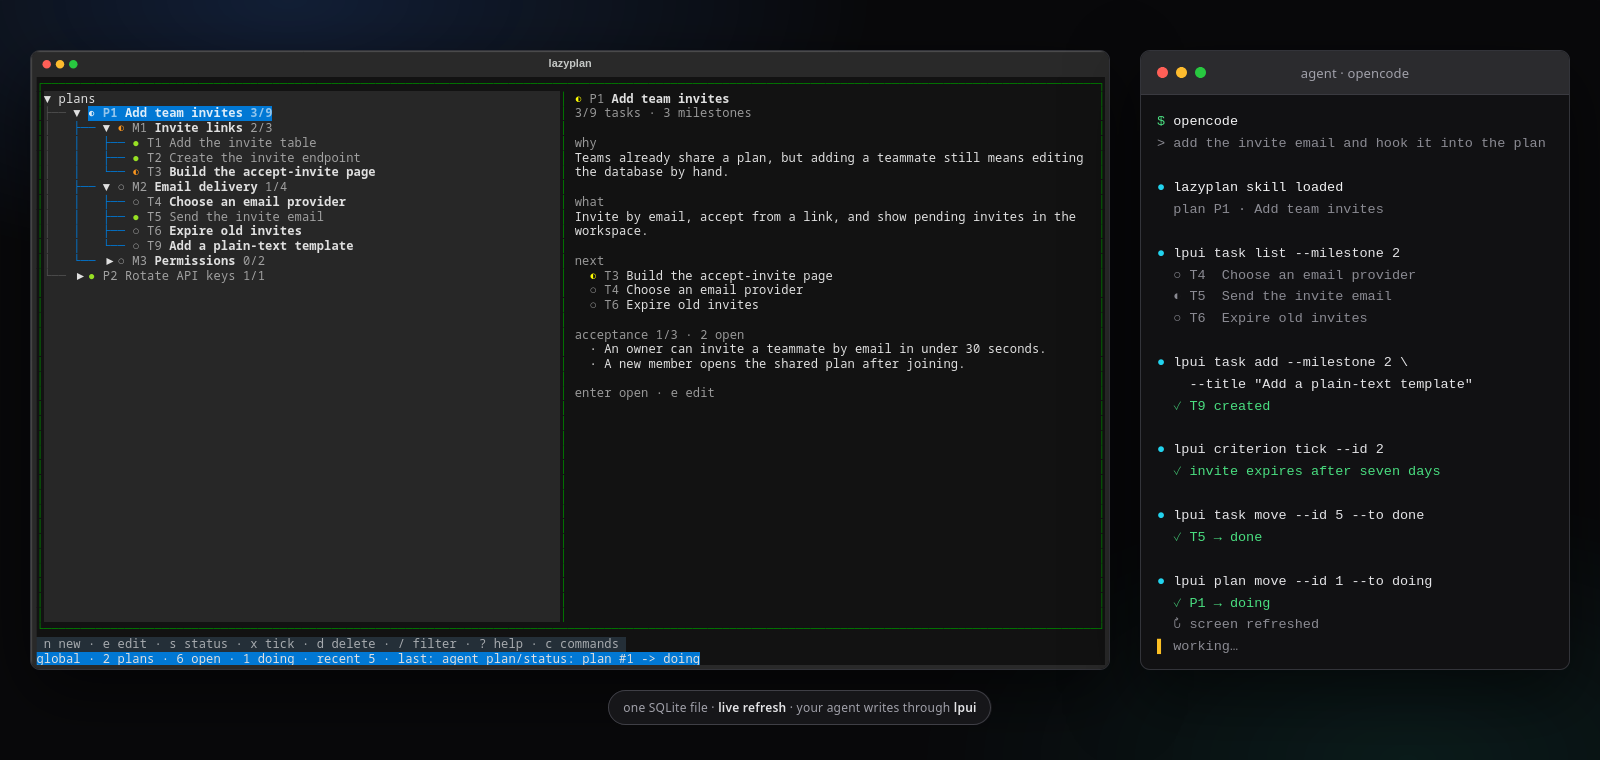
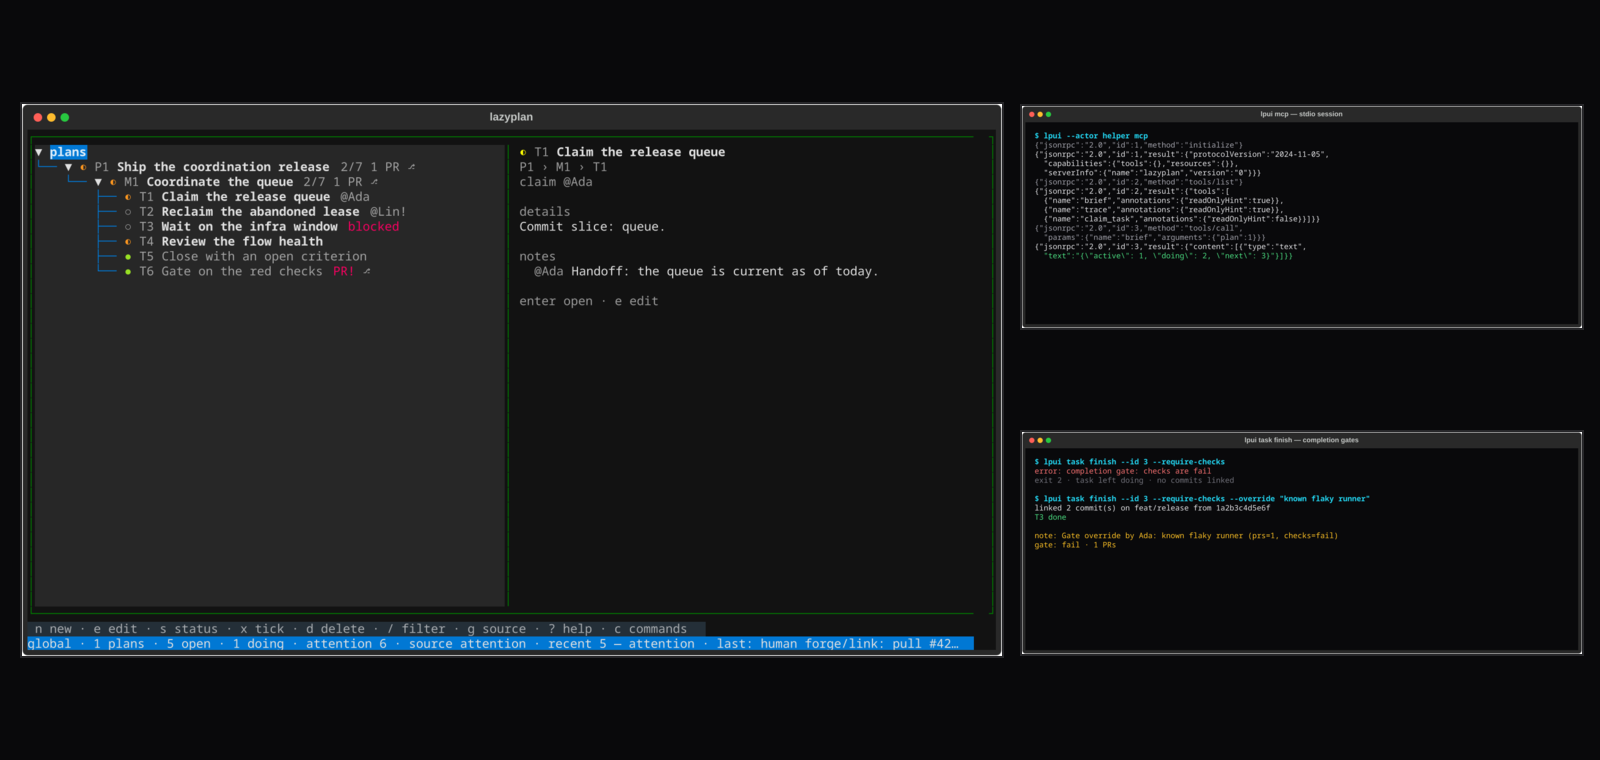
Add 0.26 screenshots and social preview
Generate deterministic screenshots for coordination, collaboration, search/bulk, bulk palette, flow health, trace, MCP, share/sync, gates, and imports; refresh the hero collage and 1200x630 social card; record alt text in the scene registry.

diff --git a/tools/capture-screens.py b/tools/capture-screens.py
@@ -46,7 +46,7 @@ from lazyplan.store import Store  # noqa: E402
 from lazyplan.tui import create_app  # noqa: E402
 
 SIZE = (130, 35)
-TRANSCRIPT_SIZE = (120, 30)
+TRANSCRIPT_SIZE = (120, 22)
 DEFAULT_OUT = ROOT / "site" / "public" / "screens"
 DATE = "2026-10-01T09:00:00+00:00"
 AUTHOR = "Ada Lovelace"
@@ -242,9 +242,10 @@ class TranscriptApp(App[None]):
     #term { padding: 1 2; }
     """
 
-    def __init__(self, body: Text) -> None:
+    def __init__(self, body: Text, title: str) -> None:
         super().__init__()
         self._body = body
+        self.title = title
 
     def compose(self) -> ComposeResult:
         yield Static(self._body, id="term")
@@ -478,10 +479,10 @@ def _imports_text() -> Text:
 
 
 def _transcript_capture(
-    text: Text, size: tuple[int, int]
+    text: Text, size: tuple[int, int], title: str
 ) -> Callable[[Store | None, Path], Awaitable[None]]:
     async def capture(_store: Store | None, target: Path) -> None:
-        app = TranscriptApp(text)
+        app = TranscriptApp(text, title)
         async with app.run_test(size=size) as pilot:
             await pilot.pause()
             app.save_screenshot(str(target))
@@ -496,6 +497,7 @@ class Scene:
     size: tuple[int, int]
     build: Callable[[Path], Store | None]
     capture: Callable[[Store | None, Path], Awaitable[None]]
+    alt: str
 
 
 def _no_fixture(_tmp: Path) -> Store | None:
@@ -503,28 +505,71 @@ def _no_fixture(_tmp: Path) -> Store | None:
 
 
 SCENES: dict[str, Scene] = {
-    "lpui-source-trail": Scene(SIZE, build_source_fixture, capture_source),
-    "lpui-coordination": Scene(SIZE, build_coordination_fixture, capture_coordination),
-    "lpui-collaboration": Scene(SIZE, build_coordination_fixture, capture_collaboration),
-    "lpui-search-bulk": Scene(SIZE, build_search_fixture, capture_search),
-    "lpui-bulk-palette": Scene(SIZE, build_search_fixture, capture_palette),
+    "lpui-source-trail": Scene(
+        SIZE,
+        build_source_fixture,
+        capture_source,
+        "lazyplan source trail for a task showing a repository, commits, changed files, a merged pull request, and a unified diff.",
+    ),
+    "lpui-coordination": Scene(
+        SIZE,
+        build_coordination_fixture,
+        capture_coordination,
+        "lazyplan plan tree filtered to Attention, showing an active claim, an expired claim, a blocked task, aging work, a done row with an open criterion, and a red PR check.",
+    ),
+    "lpui-collaboration": Scene(
+        SIZE,
+        build_coordination_fixture,
+        capture_collaboration,
+        "lazyplan task detail page showing an active claim, two review comments, and a handoff note.",
+    ),
+    "lpui-search-bulk": Scene(
+        SIZE,
+        build_search_fixture,
+        capture_search,
+        "lazyplan plan tree with three marked tasks showing checkmarks and a marked 3 count in the status line.",
+    ),
+    "lpui-bulk-palette": Scene(
+        SIZE,
+        build_search_fixture,
+        capture_palette,
+        "lazyplan command palette filtered to bulk commands: mark, move to doing, move to done, block, release claims, and undo.",
+    ),
     "lpui-flow-health": Scene(
-        TRANSCRIPT_SIZE, _no_fixture, _transcript_capture(_flow_health_text(), TRANSCRIPT_SIZE)
+        TRANSCRIPT_SIZE,
+        _no_fixture,
+        _transcript_capture(_flow_health_text(), TRANSCRIPT_SIZE, "lpui stats — flow health"),
+        "Terminal transcript of lpui stats showing WIP, cycle time, throughput, aging, stale todos, reopened work, claims, blocked tasks, and porcelain metric rows.",
     ),
     "lpui-trace": Scene(
-        TRANSCRIPT_SIZE, _no_fixture, _transcript_capture(_trace_text(), TRANSCRIPT_SIZE)
+        TRANSCRIPT_SIZE,
+        _no_fixture,
+        _transcript_capture(_trace_text(), TRANSCRIPT_SIZE, "lpui trace + lint"),
+        "Terminal transcript of lpui trace and lpui lint --strict showing criterion-to-task-to-commit-to-PR evidence and a missing proving task finding.",
     ),
     "lpui-mcp": Scene(
-        TRANSCRIPT_SIZE, _no_fixture, _transcript_capture(_mcp_text(), TRANSCRIPT_SIZE)
+        TRANSCRIPT_SIZE,
+        _no_fixture,
+        _transcript_capture(_mcp_text(), TRANSCRIPT_SIZE, "lpui mcp — stdio session"),
+        "Terminal transcript of an lpui mcp stdio session showing initialize, tools/list, and a brief tools/call response.",
     ),
     "lpui-share-sync": Scene(
-        TRANSCRIPT_SIZE, _no_fixture, _transcript_capture(_share_sync_text(), TRANSCRIPT_SIZE)
+        TRANSCRIPT_SIZE,
+        _no_fixture,
+        _transcript_capture(_share_sync_text(), TRANSCRIPT_SIZE, "lpui comment + share + sync"),
+        "Terminal transcript showing a comment with an @mention, a read-only HTML share, and a dry-run sync with a conflict.",
     ),
     "lpui-gates": Scene(
-        TRANSCRIPT_SIZE, _no_fixture, _transcript_capture(_gates_text(), TRANSCRIPT_SIZE)
+        TRANSCRIPT_SIZE,
+        _no_fixture,
+        _transcript_capture(_gates_text(), TRANSCRIPT_SIZE, "lpui task finish — completion gates"),
+        "Terminal transcript showing task finish blocked by failing checks, then completed with an override note and gate state.",
     ),
     "lpui-imports": Scene(
-        TRANSCRIPT_SIZE, _no_fixture, _transcript_capture(_imports_text(), TRANSCRIPT_SIZE)
+        TRANSCRIPT_SIZE,
+        _no_fixture,
+        _transcript_capture(_imports_text(), TRANSCRIPT_SIZE, "lpui issue import"),
+        "Terminal transcript showing a GitHub issue import dry-run and a Linear import with source refs in plan show.",
     ),
 }
 
@@ -644,12 +689,74 @@ def build_og(screenshot: Path, target: Path) -> None:
                 "+420+170",
                 "-composite",
                 "-strip",
+                "-depth",
+                "8",
                 str(target),
             ],
             check=True,
         )
     finally:
         base.unlink(missing_ok=True)
+
+
+def build_hero(coordination: Path, mcp: Path, gates: Path, target: Path) -> None:
+    """Compose the 1600x760 hero: plan on the left, agent surfaces on the right."""
+    for path in (coordination, mcp, gates):
+        if not path.is_file():
+            raise SystemExit(f"error: missing hero source {path}")
+    subprocess.run(
+        [
+            "magick",
+            "-size",
+            "1600x760",
+            "xc:#09090b",
+            "(",
+            str(coordination),
+            "-resize",
+            "980x",
+            "-bordercolor",
+            "#27272a",
+            "-border",
+            "2",
+            ")",
+            "-geometry",
+            "+20+102",
+            "-composite",
+            "(",
+            str(mcp),
+            "-resize",
+            "560x",
+            "-bordercolor",
+            "#27272a",
+            "-border",
+            "2",
+            ")",
+            "-geometry",
+            "+1020+104",
+            "-composite",
+            "(",
+            str(gates),
+            "-resize",
+            "560x",
+            "-bordercolor",
+            "#27272a",
+            "-border",
+            "2",
+            ")",
+            "-geometry",
+            "+1020+430",
+            "-composite",
+            "-strip",
+            "-depth",
+            "8",
+            str(target),
+        ],
+        check=True,
+    )
+    subprocess.run(
+        ["magick", str(target), "-quality", "82", str(target.with_suffix(".webp"))],
+        check=True,
+    )
 
 
 def run(out_dir: Path, only: list[str], keep_svg: Path | None, make_og: bool) -> None:
@@ -676,7 +783,16 @@ def run(out_dir: Path, only: list[str], keep_svg: Path | None, make_og: bool) ->
                 shutil.copyfile(svg, keep_svg)
             print(f"wrote {shown(png)} ({dimensions(png)})")
             print(f"wrote {shown(png.with_suffix('.webp'))}")
-        if make_og and "lpui-coordination" in names:
+        if make_og and {"lpui-coordination", "lpui-mcp", "lpui-gates"} <= set(names):
+            hero = out_dir / "lpui-and-agent.png"
+            build_hero(
+                out_dir / "lpui-coordination.png",
+                out_dir / "lpui-mcp.png",
+                out_dir / "lpui-gates.png",
+                hero,
+            )
+            print(f"wrote {shown(hero)} ({dimensions(hero)})")
+            print(f"wrote {shown(hero.with_suffix('.webp'))}")
             og = out_dir / "og-lpui-and-agent.png"
             build_og(out_dir / "lpui-coordination.png", og)
             print(f"wrote {shown(og)} ({dimensions(og)})")

diff --git a/tests/test_site_assets.py b/tests/test_site_assets.py
@@ -46,6 +46,8 @@ class TestSceneRegistry(unittest.TestCase):
                 self.assertGreater(scene.size[1], 0)
                 self.assertTrue(callable(scene.build))
                 self.assertTrue(callable(scene.capture))
+                self.assertGreater(len(scene.alt), 30)
+                self.assertNotIn("lorem", scene.alt.lower())
 
     def test_output_names_are_stable(self):
         for name in capture.SCENES:
